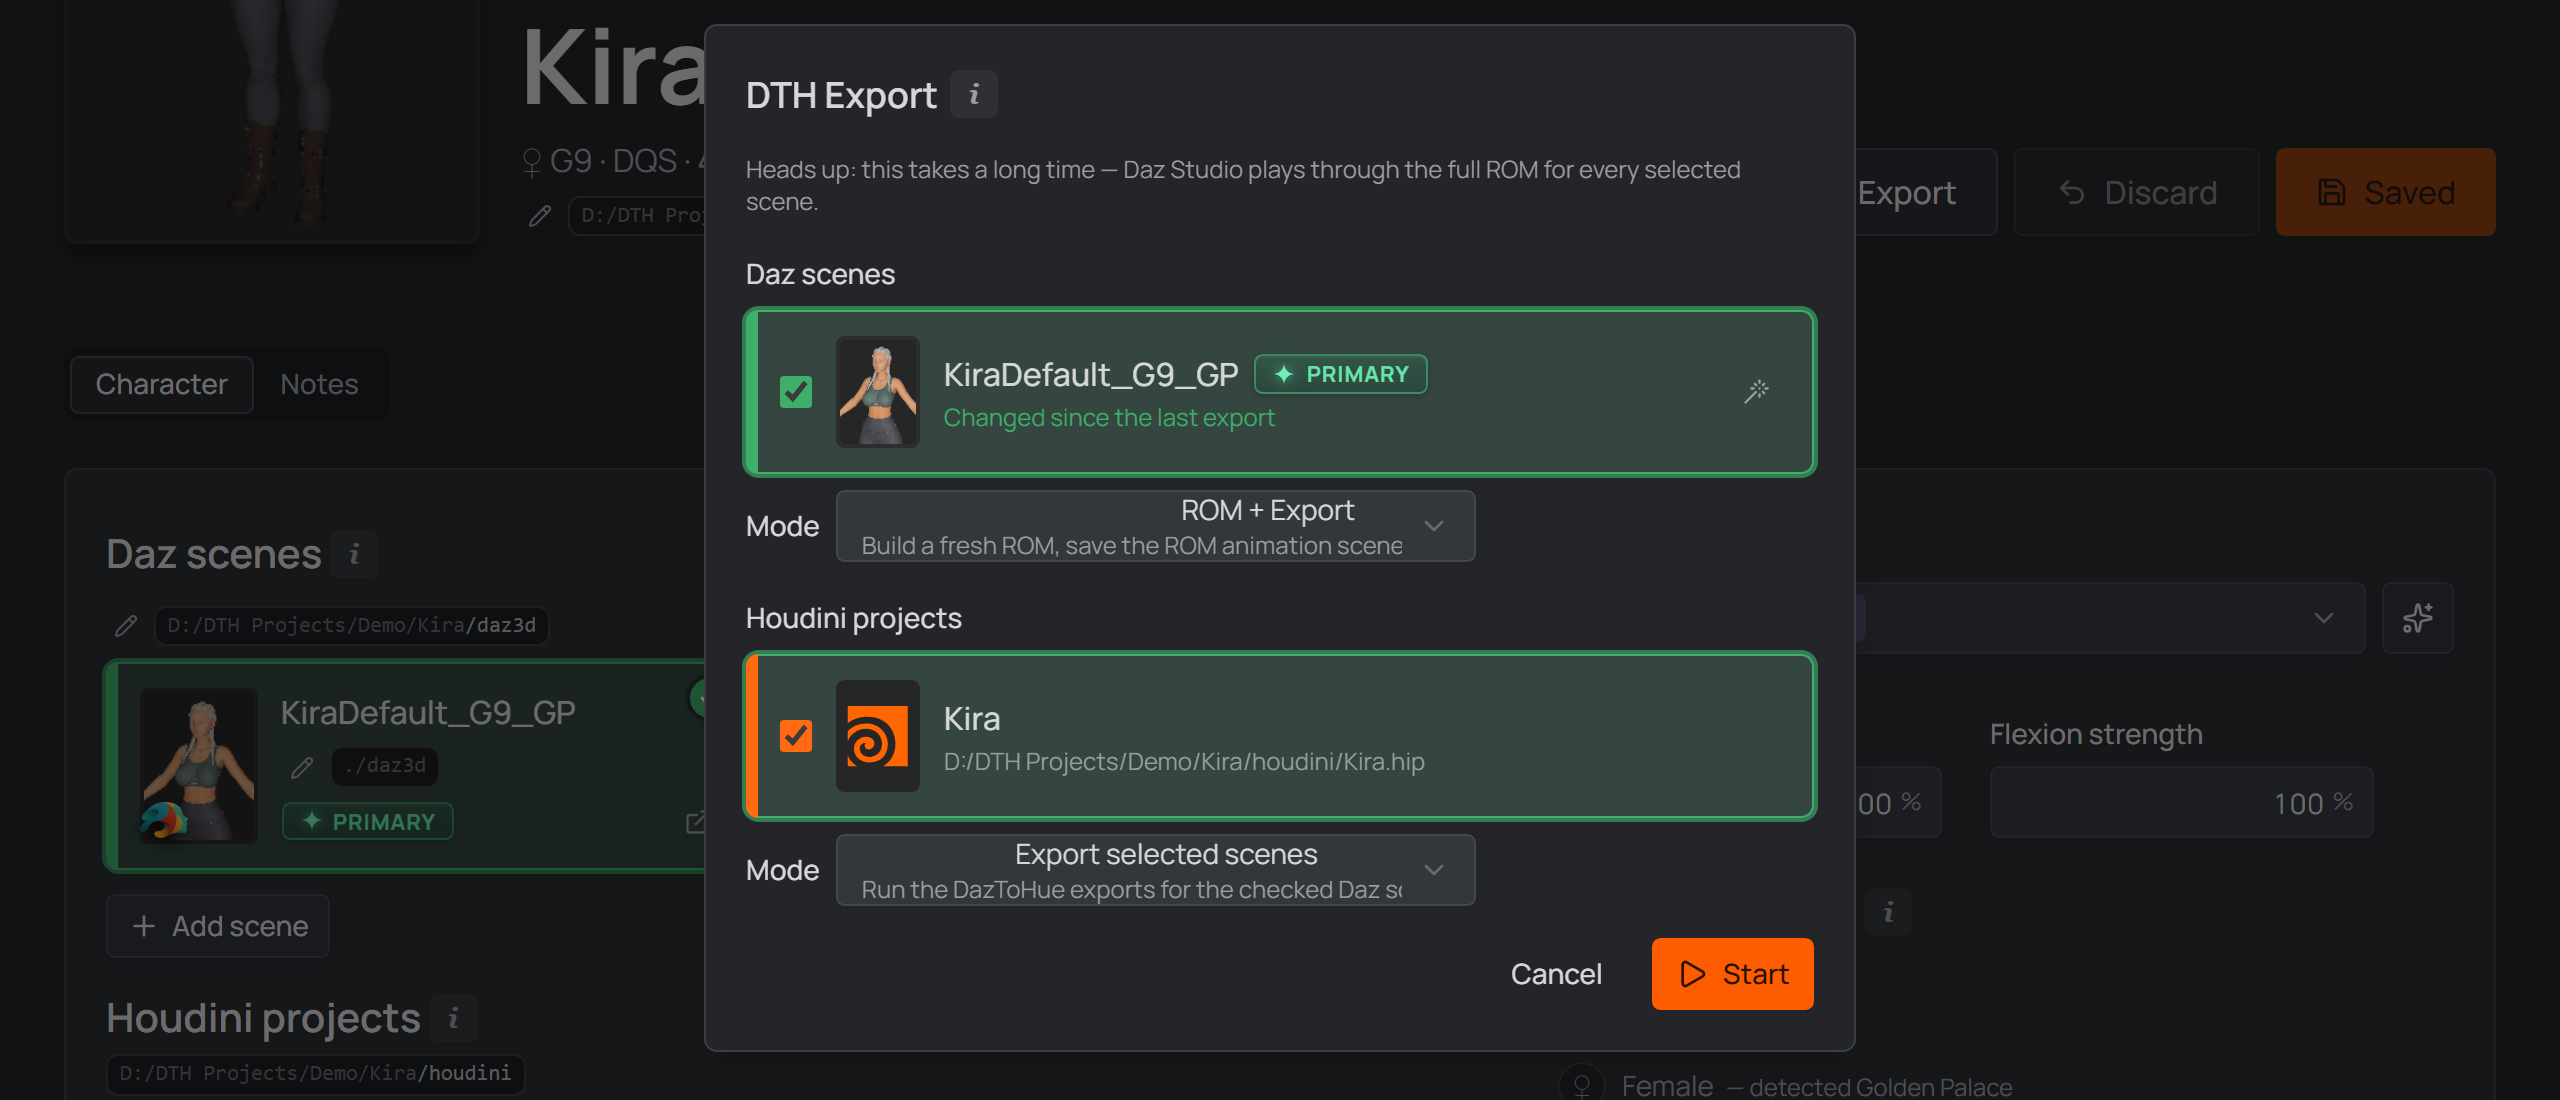
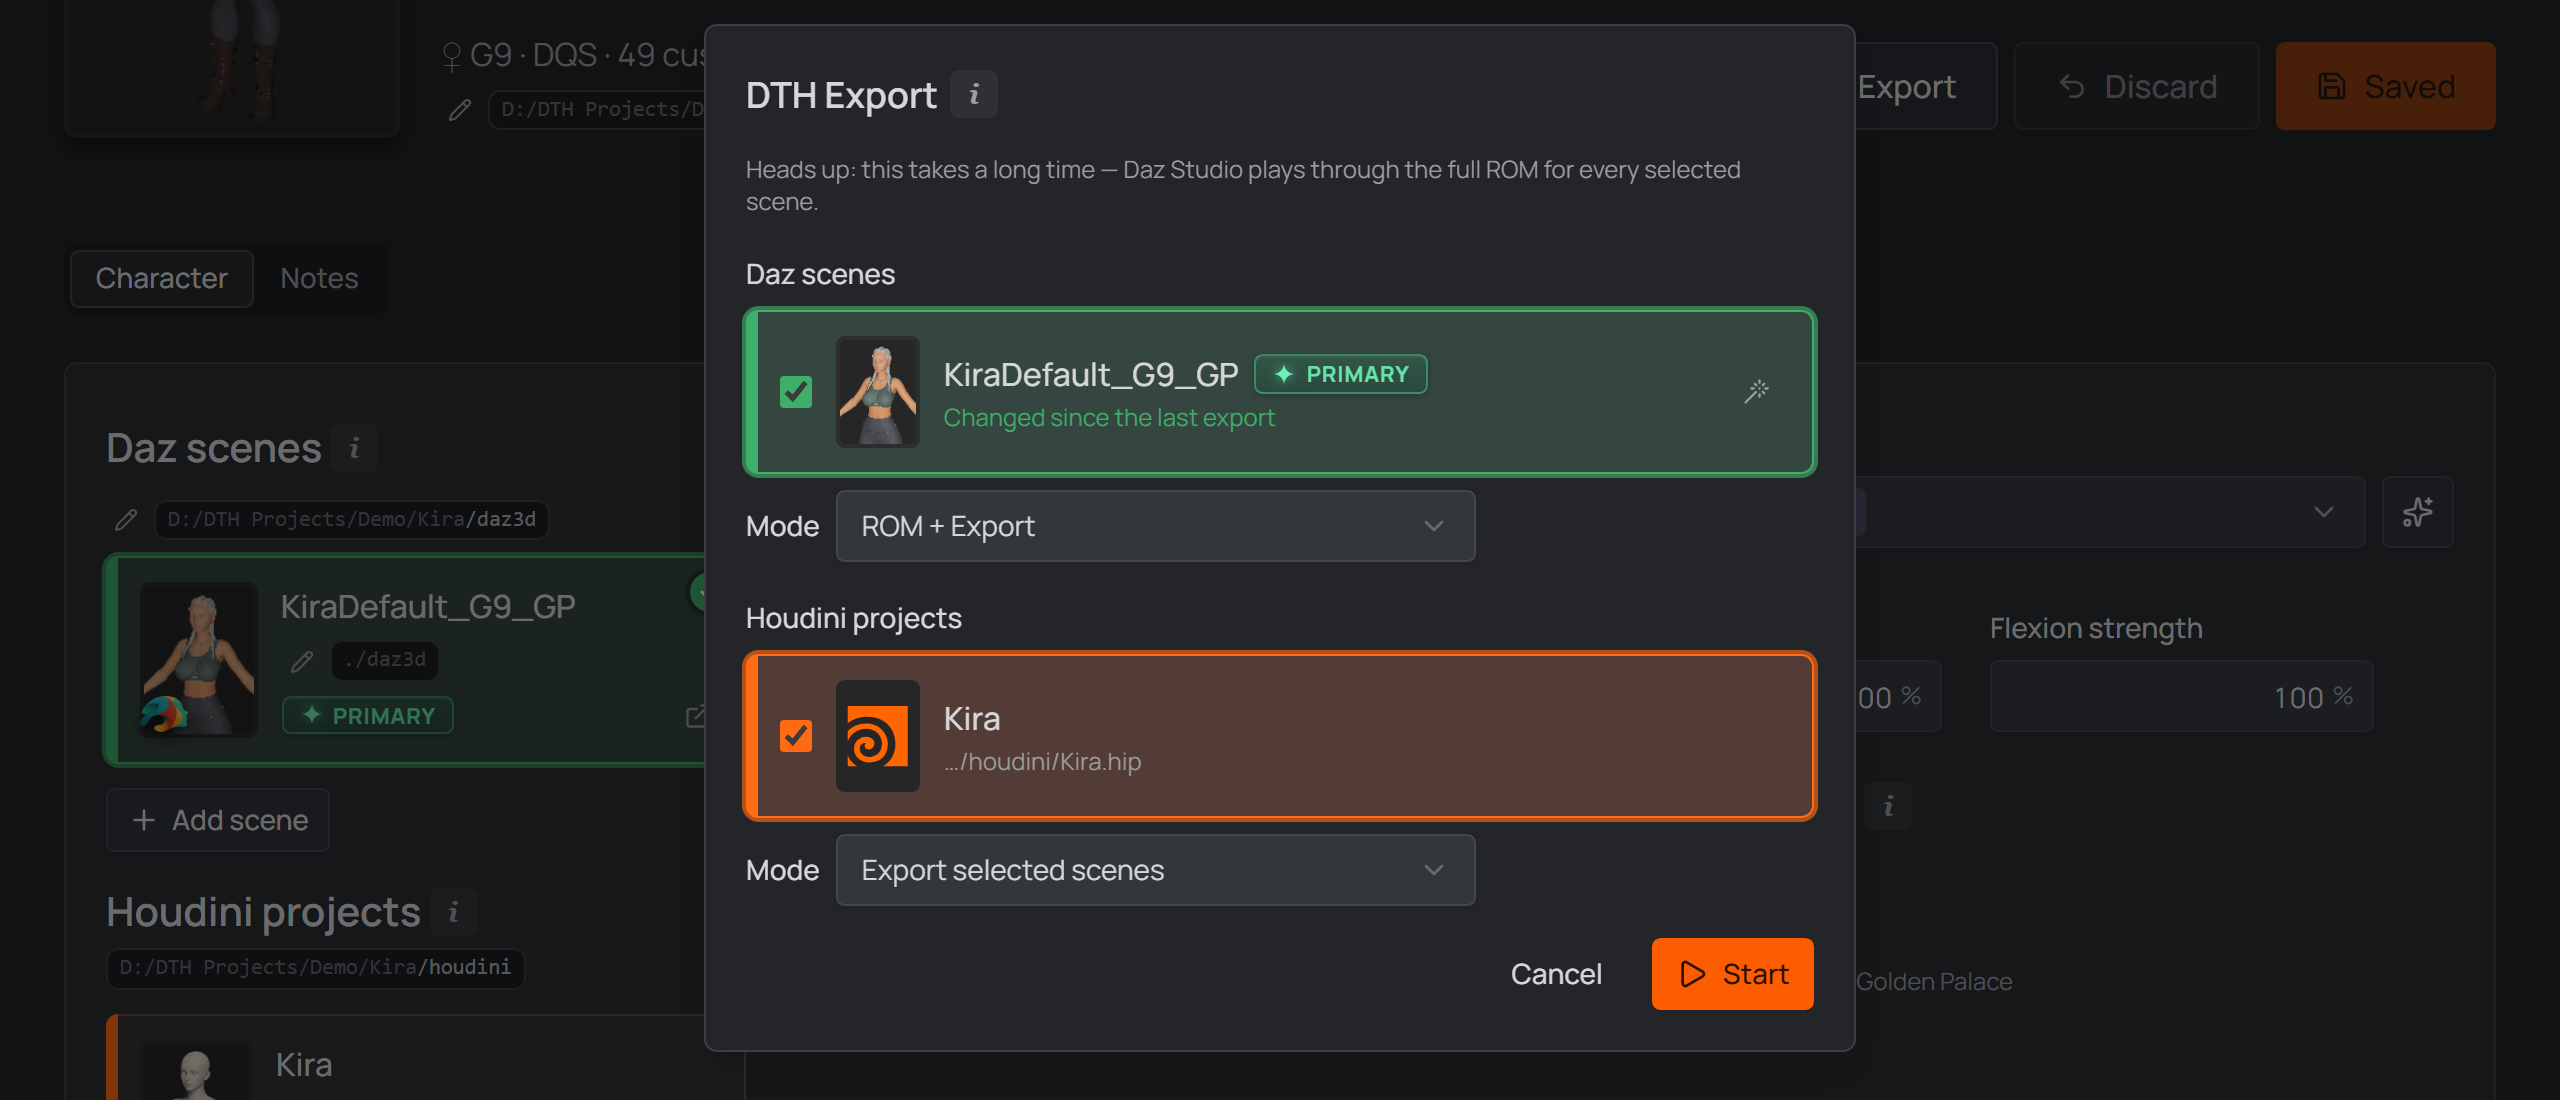
feat(web): DTH Export's Houdini rows wear the houdini-card look
The dialog's project rows sat on daz-card — green tint under an orange
accent bar. They now use the houdini-card utility the character page's
linked-project card wears (orange tint + border), and the utility grows the
two states the dialog needs that the character page never sets: the
group/card cover-hover and a data-selected ring, both mirroring daz-card's
in orange. Guide screenshot regenerated.

Claude-Session: https://claude.ai/code/session_01Fhwa5xWus8FxN9k5Z4c4Ee

diff --git a/apps/web/src/components/character/dth-export.tsx b/apps/web/src/components/character/dth-export.tsx
@@ -854,8 +854,10 @@ const HOUDINI_MODE_OPTIONS: ReadonlyArray<{ mode: HoudiniRunMode; title: string;
 ]
 
 /** One selectable Houdini project — the scene rows' sibling card: checkbox,
- *  the Houdini mark as its tile, the project stem over its hint, and the
- *  houdini-orange accent bar the linked-project cards wear elsewhere. The hint
+ *  the Houdini mark as its tile, the project stem over its hint, and the full
+ *  `houdini-card` look (orange tint + border + accent bar) the linked-project
+ *  card wears on the character page — in orange what the Daz rows are in
+ *  green, selected ring included. The hint
  *  is a status line like the scene rows': normally the project's short
  *  location (the tail of the path — the stem already carries the name), and a
  *  loud "missing on disk" when the `.hip` is gone — a run started on one of
@@ -881,7 +883,7 @@ function HipRow({
   return (
     <div className="group/card relative w-full">
       <div
-        className={`daz-card relative flex items-center gap-3 rounded-lg border p-3 pl-4${missing ? ' opacity-50' : ''}`}
+        className={`houdini-card relative flex items-center gap-3 rounded-lg border p-3 pl-4${missing ? ' opacity-50' : ''}`}
         data-selected={checked ? 'true' : undefined}
       >
         <input

diff --git a/apps/web/src/styles.css b/apps/web/src/styles.css
@@ -475,14 +475,22 @@ a {
 }
 
 /* The linked-project "Houdini card": mirrors `daz-card` with a Houdini-orange
-   LEFT ACCENT BAR + faint orange tint / border. Houdini projects are NOT
-   selectable, so there's no selected state. */
+   LEFT ACCENT BAR + faint orange tint / border. The DTH Export dialog's
+   project rows are selectable (checkbox + cover button, like the Daz rows),
+   so the card carries the same group-hover and `data-selected` states as
+   `daz-card`, in orange — the character page's card simply never sets them. */
 @utility houdini-card {
   background-color: color-mix(in oklab, var(--houdini-orange) 6%, var(--card));
   border-color: color-mix(in oklab, var(--houdini-orange) 26%, var(--border));
-  &:hover {
+  &:hover,
+  .group\/card:hover & {
     background-color: color-mix(in oklab, var(--houdini-orange) 11%, var(--card));
     border-color: color-mix(in oklab, var(--houdini-orange) 55%, var(--border));
+  }
+  &[data-selected='true'] {
+    background-color: color-mix(in oklab, var(--houdini-orange) 20%, var(--card));
+    border-color: var(--houdini-orange);
+    box-shadow: 0 0 0 2px color-mix(in oklab, var(--houdini-orange) 65%, transparent);
   }
 }
 
